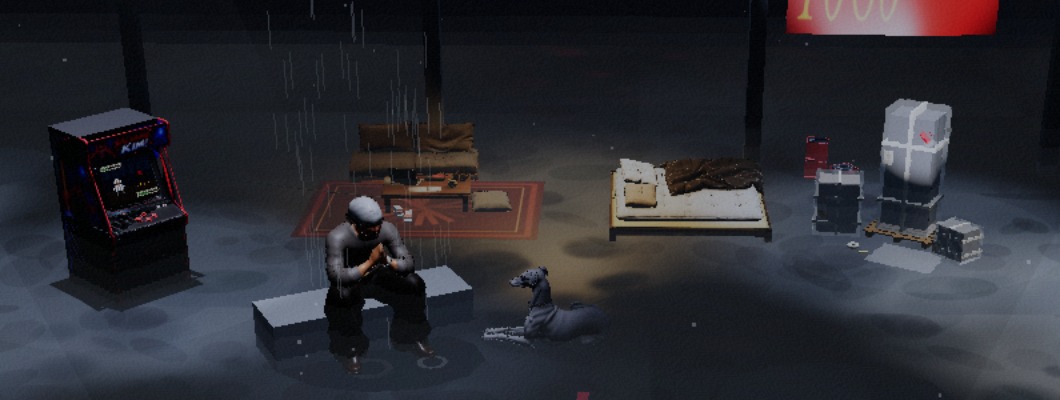
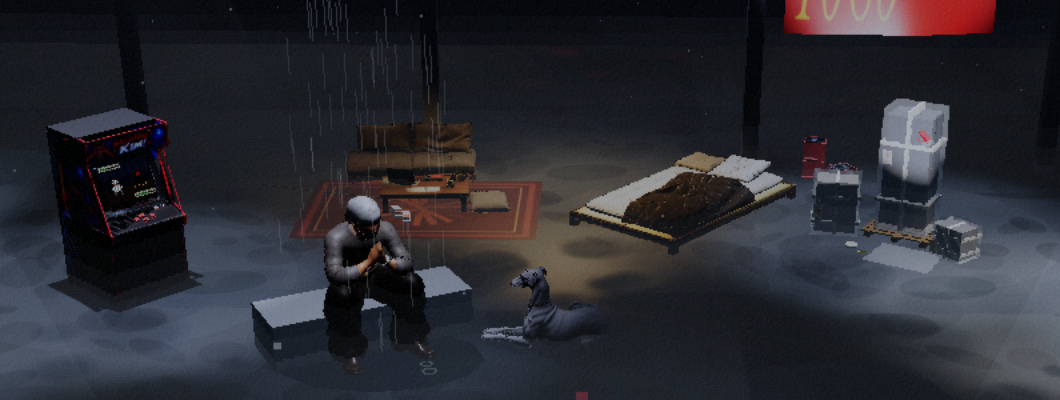
Cama: la rotación estaba dentro de un comentario; ahora sí almohadas a la pared y pies hacia rainn
Incluye pruebas/visor/topdown.html para revisar orientación desde arriba.

Claude-Session: https://claude.ai/code/session_01L8k9MYJX3tUX3yt9rQGHES

diff --git a/pruebas/visor/topdown.html b/pruebas/visor/topdown.html
@@ -1,0 +1,11 @@
+<!doctype html><html><body style="margin:0;background:#222"><canvas id="c" width="700" height="700"></canvas>
+<script src="../../escondite/vendor/three.min.js"></script><script src="../../escondite/vendor/GLTFLoader.js"></script>
+<script>
+// Top-down check of the bed orientation vs rainn (red) — ?rot=rad
+var q=new URLSearchParams(location.search), rot=+q.get('rot');
+var r=new THREE.WebGLRenderer({canvas:document.getElementById('c')}); var s=new THREE.Scene(); s.background=new THREE.Color(0x333333);
+s.add(new THREE.AmbientLight(0xffffff,1.2)); var cam=new THREE.OrthographicCamera(-8,8,8,-8,.1,100); cam.position.set(-.5,30,-7); cam.up.set(0,0,-1); cam.lookAt(-.5,0,-7);
+var dot=function(x,z,c,r_){var m=new THREE.Mesh(new THREE.CircleGeometry(r_||.5,20),new THREE.MeshBasicMaterial({color:c}));m.rotation.x=-Math.PI/2;m.position.set(x,.5,z);s.add(m);};
+dot(-3.03,-4.08,0xff0000,.6); dot(-3.0,-10.9,0x3366ff,.4); for(var x=-8;x<=8;x+=2)dot(x,-12.2,0x888888,.15);
+new THREE.GLTFLoader().load('../../escondite/cama/cama.glb',function(g){var m=g.scene,CS=2.2;m.scale.set(CS*1.7,CS*1.1,CS*1.35);m.position.set(1.7,0,-9.9);m.rotation.y=rot;s.add(m);r.render(s,cam);window.done=1;});
+</script></body></html>

diff --git a/escondite/escondite.html b/escondite/escondite.html
@@ -1572,7 +1572,8 @@ body.talking .hud-bottom, body.talking #hint { opacity: 0; pointer-events: none;
     oldBed.add(blanket); oldBed.add(put(box(.6, .14, .38, white), MX - .15, .27, MZ - .7, .1));
     loadGLTF(["cama/cama.glb", "cama/cama.json"], function (gltf) {
       var m = gltf.scene, CS = 2.2;              // model 1 unit long; a double bed ~2.2 in scene units
-      m.scale.set(CS * 1.25, CS * 1.1, CS * 1.8); m.position.set(MX - .7, 0, MZ + .9);   // big enough for rainn to sleep in, still low m.rotation.y = 2.55;   // diagonal: pillows (model +z) against the back wall, foot pointing toward rainn
+      m.scale.set(CS * 1.7, CS * 1.1, CS * 1.35); m.position.set(MX - .7, 0, MZ + .9);   // big enough for rainn to sleep in, still low
+      m.rotation.y = -2.25;  // diagonal: head (model -x, pillows) to the back wall, foot pointing at rainn (checked top-down)
       m.traverse(function (o) { if (o.isMesh) { o.castShadow = !isTouch; o.receiveShadow = true; o.material.userData.matte = true; o.material.envMapIntensity = .9; } });
       m.updateMatrixWorld(true); var bb = new THREE.Box3().setFromObject(m); m.position.y -= bb.min.y;
       home.add(m); oldBed.visible = false;

diff --git a/escondite/index.html b/escondite/index.html
@@ -1580,7 +1580,8 @@ body.talking .hud-bottom, body.talking #hint { opacity: 0; pointer-events: none;
     oldBed.add(blanket); oldBed.add(put(box(.6, .14, .38, white), MX - .15, .27, MZ - .7, .1));
     loadGLTF(["cama/cama.glb", "cama/cama.json"], function (gltf) {
       var m = gltf.scene, CS = 2.2;              // model 1 unit long; a double bed ~2.2 in scene units
-      m.scale.set(CS * 1.25, CS * 1.1, CS * 1.8); m.position.set(MX - .7, 0, MZ + .9);   // big enough for rainn to sleep in, still low m.rotation.y = 2.55;   // diagonal: pillows (model +z) against the back wall, foot pointing toward rainn
+      m.scale.set(CS * 1.7, CS * 1.1, CS * 1.35); m.position.set(MX - .7, 0, MZ + .9);   // big enough for rainn to sleep in, still low
+      m.rotation.y = -2.25;  // diagonal: head (model -x, pillows) to the back wall, foot pointing at rainn (checked top-down)
       m.traverse(function (o) { if (o.isMesh) { o.castShadow = !isTouch; o.receiveShadow = true; o.material.userData.matte = true; o.material.envMapIntensity = .9; } });
       m.updateMatrixWorld(true); var bb = new THREE.Box3().setFromObject(m); m.position.y -= bb.min.y;
       home.add(m); oldBed.visible = false;
